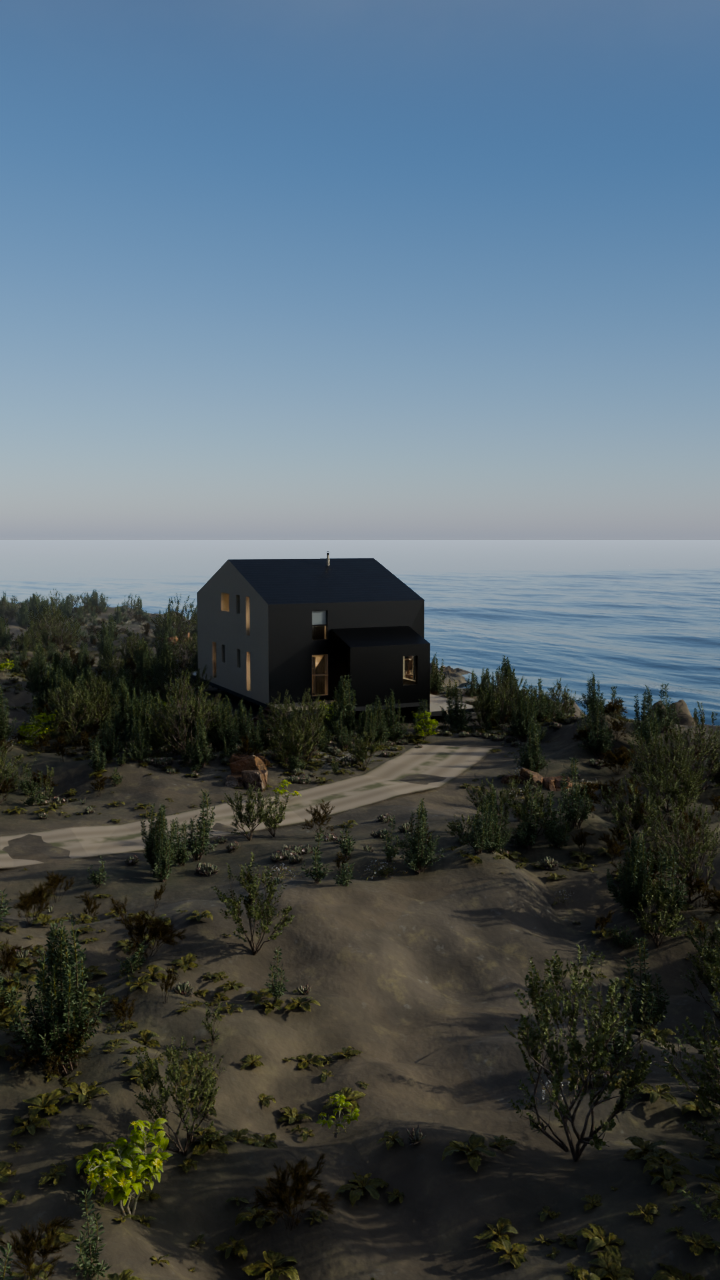
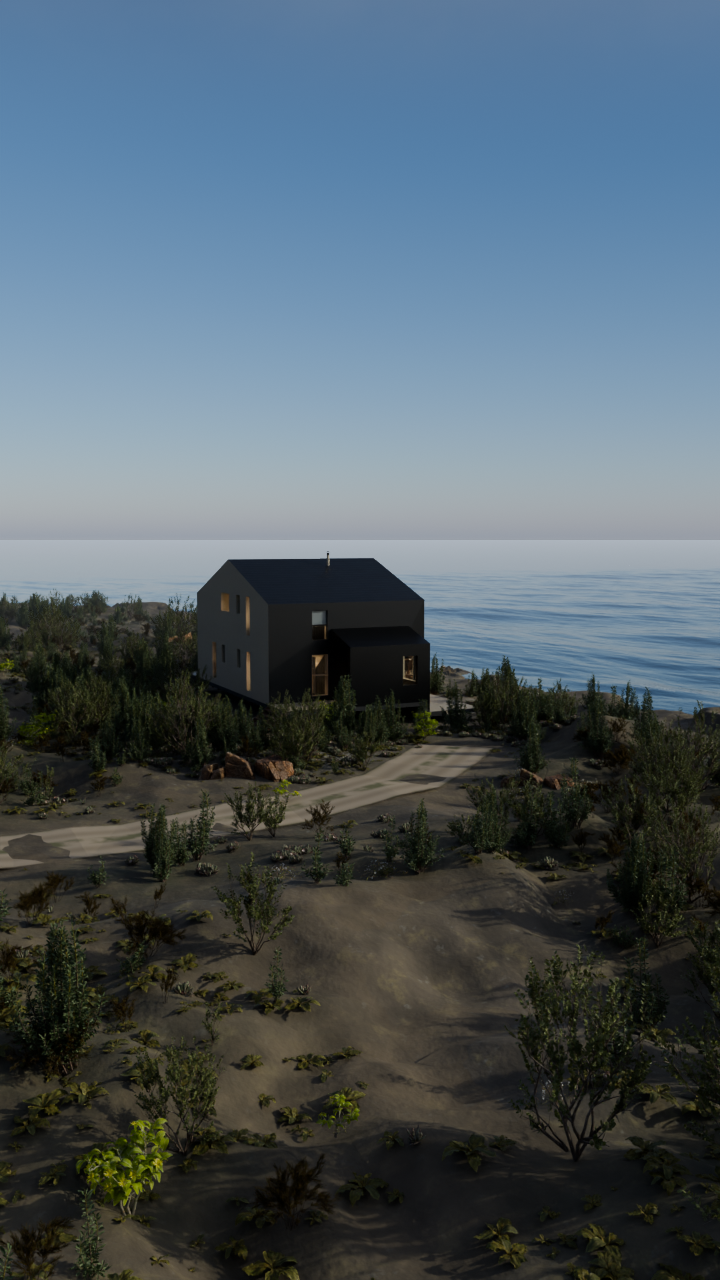
Maiten: el farellon pasa a ser una muralla continua, no bolones
"Las rocas se siguen viendo muy gigantes, a lo mejor hacerlo en bajada mas como muralla."

De once afloramientos quedan tres lajas bajas mar afuera, solo donde revienta la ola (siguen
en lista explicita porque rocas_nodes les arma el collar de espuma). El acantilado ahora es
terreno: SLOPE_W baja de 7 a 4,6 m (~57°) y el perfil deja de ser una rampa suavizada para
ser tres bancos con su cara vertical, perfil_muralla().

Lo que de verdad lo arreglo, y conviene no olvidarlo: **el relieve de una pared hay que
ponerlo en horizontal, no en vertical**. El ruido que terrain_h suma a la altura es vertical,
y en una cara de 57° eso corre el punto por la propia cara sin cambiar la silueta: por eso el
farellon salia liso por mas ruido que se le pusiera, y el relieve terminaba puesto con piedras
encima, que es lo que la revision rechazo dos veces. Ahora el ruido va sobre d, perpendicular
a la cara y en las dos direcciones, asi que un metro de avance son metro y medio de altura y
salen contrafuertes, quebradas y repisas. Ademas los escalones del corte suben de 0,33 a 0,55
con paso de 0,85 m, y la grieta de la Voronoi baja a 0,17 porque sobre una pared lisa se leia
como enchape.

La espuma contra la muralla va mas desflecada y menos blanca: una franja pareja de blanco puro
al pie del acantilado se lee como mancha de pintura.

Claude-Session: https://claude.ai/code/session_013App5N8A98PLWGsSjGfVFF

diff --git a/casa_maiten_3d.py b/casa_maiten_3d.py
@@ -76,33 +76,17 @@ FPS = 24
 #   (x, y, radio, alto sobre el nivel del mar).  Con SEA = -7, un alto de 8,8 deja la cima 1,8 m
 #   sobre la plataforma: por encima del piso de la terraza (1,10) y muy por debajo del segundo
 #   piso (3,85). Eso es el enganche medido: desde la terraza se ve piedra, desde arriba, mar.
-# Más chicas y más atrás que en la primera versión: la revisión las vio "demasiado falsas".
-#
-# ⚠ Achicar **sólo el radio** las empeoró: dejó la misma altura sobre un radio menor y salieron
-# conos, una hilera de dientes. Lo que las hacía falsas no era el tamaño sino la **proporción**:
-# una roca de costa es baja y ancha, no esbelta. Así que la altura baja más que el radio, y el
-# grupo se parte en dos familias con oficios distintos:
-#
-#   - las de la base del farellón (y ≈ -9 a -12) se **funden con él** —el terreno se queda con el
-#     máximo entre su perfil y la roca—, así que no se leen como piedras sueltas apoyadas sino
-#     como que el borde del farellón está roto;
-#   - las del agua (y ≈ -16 a -21) son lajas bajas, de alto/radio ≈ 0,7, que es donde revienta la
-#     ola y donde el collar de espuma de rocas_nodes tiene sentido. Son **tres y separadas**: con
-#     seis juntas el primer plano se leía como una camada de bolones, que era justamente lo que
-#     la revisión llamó falso. El detalle fino del agua lo pone la plataforma escaneada.
-#
-# Las cimas ya no pasan del piso de la terraza, y no hace falta: con la casa 7 m sobre el agua y
-# 13 m tierra adentro, el "mirar por encima de la roca" lo da la plataforma, no las piedras.
+# Lajas bajas en el agua. Eran once y hacían de farellón; ahora el farellón es terreno —una
+# muralla continua en bajada, ver `perfil_muralla`— y estas quedan sólo como lo que rompe la ola
+# mar afuera. La revisión las vio "muy gigantes" dos veces seguidas: primero como domos grandes y
+# después, al achicarles el radio sin bajarles la altura, como conos. Lo que no funcionaba era
+# resolver un acantilado con piedras sueltas; apiladas o separadas, se leen como bolones.
+# Siguen siendo una lista explícita porque `rocas_nodes` les arma el collar de espuma.
 #   (x, y, radio, alto sobre el nivel del mar)
 ROCAS = [
-    (0.5, -10.5, 5.6, 7.0),      # base del farellón: le rompen el borde
-    (10.5, -9.5, 5.0, 6.6),
-    (19.0, -11.5, 4.8, 6.2),
-    (-6.5, -8.5, 4.8, 6.6),
-    (26.5, -9.0, 5.0, 6.8),
-    (4.5, -18.0, 4.8, 3.4),      # lajas en el agua: acá revienta la ola
-    (24.0, -21.0, 4.2, 2.9),
-    (-12.0, -16.0, 4.0, 2.6),
+    (4.5, -18.5, 3.2, 2.4),
+    (24.0, -21.0, 2.8, 2.0),
+    (-12.0, -16.5, 3.0, 2.2),
 ]
 
 
@@ -423,7 +407,7 @@ def rock_mat():
     bw = n.new("ShaderNodeRGBToBW")
     l.new(bloq.outputs["Color"], bw.inputs[0])
     seca = N.mix(N.math("MULTIPLY_ADD", bw.outputs[0], 0.85, 0.05), seca, (0.185, 0.145, 0.092))
-    seca = N.mix(N.math("MULTIPLY", N.math("SUBTRACT", 1.0, grieta), 0.35), seca, (0.030, 0.027, 0.024))
+    seca = N.mix(N.math("MULTIPLY", N.math("SUBTRACT", 1.0, grieta), 0.17), seca, (0.040, 0.036, 0.032))
     # mojado bajo la cota de marea
     moja = N.math("SUBTRACT", 1.0, N.smooth(z, SEA + 0.5, SEA + 1.9))
     col = N.mix(moja, seca, (0.045, 0.045, 0.043))
@@ -551,9 +535,12 @@ def water_mat():
     edge = N.math("MULTIPLY", edge, N.smooth(N.math("ADD", brk, N.math("MULTIPLY", grain, 0.5)), 0.4, 0.6))
     # 2) agua blanca donde la ola rompe: cresta (sobre el nivel medio) en agua baja
     brkz = N.math("MULTIPLY", N.smooth(zrel, 0.05, 0.3), N.math("SUBTRACT", 1.0, N.smooth(depth, 0.5, 1.3)))
-    brkz = N.math("MULTIPLY", brkz, N.smooth(N.math("ADD", streak, N.math("MULTIPLY", grain, 0.4)), 0.35, 0.6))
+    # Contra una muralla la ola revienta en una franja ancha, y si esa franja sale pareja se lee
+    # como una mancha de pintura. Se desfleca más que en la playa de Huingán: umbral más alto y
+    # más peso al grano.
+    brkz = N.math("MULTIPLY", brkz, N.smooth(N.math("ADD", streak, N.math("MULTIPLY", grain, 0.7)), 0.44, 0.74))
     # 3) espuma que queda en vetas sobre el agua muy baja, detrás de la ola
-    swash = N.math("MULTIPLY", N.math("SUBTRACT", 1.0, N.smooth(depth, 0.05, 0.35)), N.math("MULTIPLY", streak, 0.4))
+    swash = N.math("MULTIPLY", N.math("SUBTRACT", 1.0, N.smooth(depth, 0.05, 0.35)), N.math("MULTIPLY", streak, 0.28))
     surf = N.math("MAXIMUM", N.math("MAXIMUM", edge, brkz), swash)
     # 4) rompiente contra la piedra: collar de espuma alrededor de cada afloramiento de ROCAS,
     # desflecado por las mismas vetas y el mismo grano que la espuma de orilla. Es la firma del
@@ -570,7 +557,7 @@ def water_mat():
     foam = N.math("MAXIMUM", surf, N.math("MULTIPLY", whitecap, 0.6))
     foam = N.math("MINIMUM", foam, 1.0)
     fb = n.new("ShaderNodeBsdfPrincipled")
-    fb.inputs["Base Color"].default_value = (0.85, 0.87, 0.86, 1)
+    fb.inputs["Base Color"].default_value = (0.74, 0.77, 0.765, 1)
     fb.inputs["Roughness"].default_value = 0.8
     mx = n.new("ShaderNodeMixShader")
     l.new(foam, mx.inputs["Fac"])
@@ -756,20 +743,48 @@ def house_dist(x, y):
 
 FORE = 0.45      # pendiente del farellón: sigue cayendo bajo el agua, no es una playa tendida
 BEACH = 4.0      # ancho de la franja de rompiente sobre la línea de agua (m)
-SLOPE_W = 7.0    # 7 m de la línea de agua a la plataforma: 45°, un farellón de verdad
+SLOPE_W = 4.6    # de la línea de agua a la plataforma: ~57°, una muralla, no un talud
+
+
+def perfil_muralla(t):
+    """Perfil del farellón, de 0 en la línea de agua a 1 en la plataforma.
+
+    No es una rampa: son **bancos**. Tres repisas casi horizontales separadas por caras casi
+    verticales, que es como se desgasta una roca estratificada y lo que hace que el farellón se
+    lea como muralla. Con el `smoothstep` que venía de la duna de Huingán salía un talud liso, y
+    el relieve había que ponerlo con piedras sueltas encima, que es justo lo que la revisión
+    rechazó por "muy gigantes"."""
+    ks = ((0.00, 0.00), (0.10, 0.40), (0.34, 0.46), (0.44, 0.76), (0.66, 0.82), (0.78, 1.00),
+          (1.00, 1.00))
+    for (t0, v0), (t1, v1) in zip(ks, ks[1:]):
+        if t <= t1:
+            u = (t - t0) / (t1 - t0)
+            return v0 + (v1 - v0) * u * u * (3 - 2 * u)
+    return 1.0
 
 
 def terrain_base(x, y):
-    """Perfil sin accidentes: el farellón cae del borde de la plataforma al agua y sigue bajando.
+    """Perfil sin accidentes: la muralla cae del borde de la plataforma al agua y sigue bajando.
 
     Nada que ver con el de Huingán, que era fondo marino < playa < ladera de duna < meseta: acá no
-    hay playa. La plataforma de roca llega hasta el borde y de ahí baja de golpe."""
+    hay playa. Dos cosas la hacen muralla y no talud: el perfil de bancos y que la distancia a la
+    orilla va **perturbada por ruido que sólo depende de x**. Eso hace que la muralla avance y
+    retroceda a lo largo de la costa, y como la cara es casi vertical, un metro de avance son casi
+    dos de altura: salen contrafuertes y quebradas verticales. Es lo que reemplazó a los
+    afloramientos sueltos, que a cualquier tamaño se leían como bolones."""
     d = shore_d(x, y)
+    # El ruido va sobre **d**, o sea perpendicular a la cara, y en las dos direcciones (x e y).
+    # Es la diferencia entre que la muralla tenga relieve o no: el ruido que `terrain_h` suma a
+    # la altura es vertical, y en una cara de 57° desplazar un punto hacia arriba lo corre por la
+    # propia cara sin cambiar la silueta —por eso el farellón salía liso y el relieve había que
+    # ponerlo con piedras encima—. Empujando la cara hacia adentro y hacia afuera, en cambio, un
+    # metro de avance son metro y medio de altura: salen contrafuertes, quebradas y repisas.
+    d += (1.9 * noise.noise(Vector((x / 9.0, y / 7.0, 21.0)))
+          + 0.9 * noise.noise(Vector((x / 3.1, y / 2.6, 23.0)))
+          + 0.40 * noise.noise(Vector((x / 1.15, y / 1.0, 27.0))))
     if d < 0:
         return SEA + max(d * FORE, -11.0)          # bajo el agua
-    t = min(1.0, d / SLOPE_W)
-    t = t * t * (3 - 2 * t)
-    return SEA + t * (GROUND - SEA)
+    return SEA + perfil_muralla(min(1.0, d / SLOPE_W)) * (GROUND - SEA)
 
 
 def path_x(y):
@@ -806,9 +821,9 @@ def terrain_h(x, y):
     h += flat * (1.15 * gr + 0.95 * (ridge - 1.0))
     esc = min(1.0, max(0.0, (18.0 - d) / 16.0)) * flat
     if esc > 0.01:
-        paso = 1.15
+        paso = 0.85
         quant = paso * math.floor(h / paso + 0.45)
-        h += (quant - h) * 0.33 * esc
+        h += (quant - h) * 0.55 * esc
     rh = rocas_h(x, y)
     if rh > h:                                     # los afloramientos mandan donde los hay
         h = rh + (0.55 * noise.noise(Vector((x / 2.2, y / 2.2, 3.3)))
